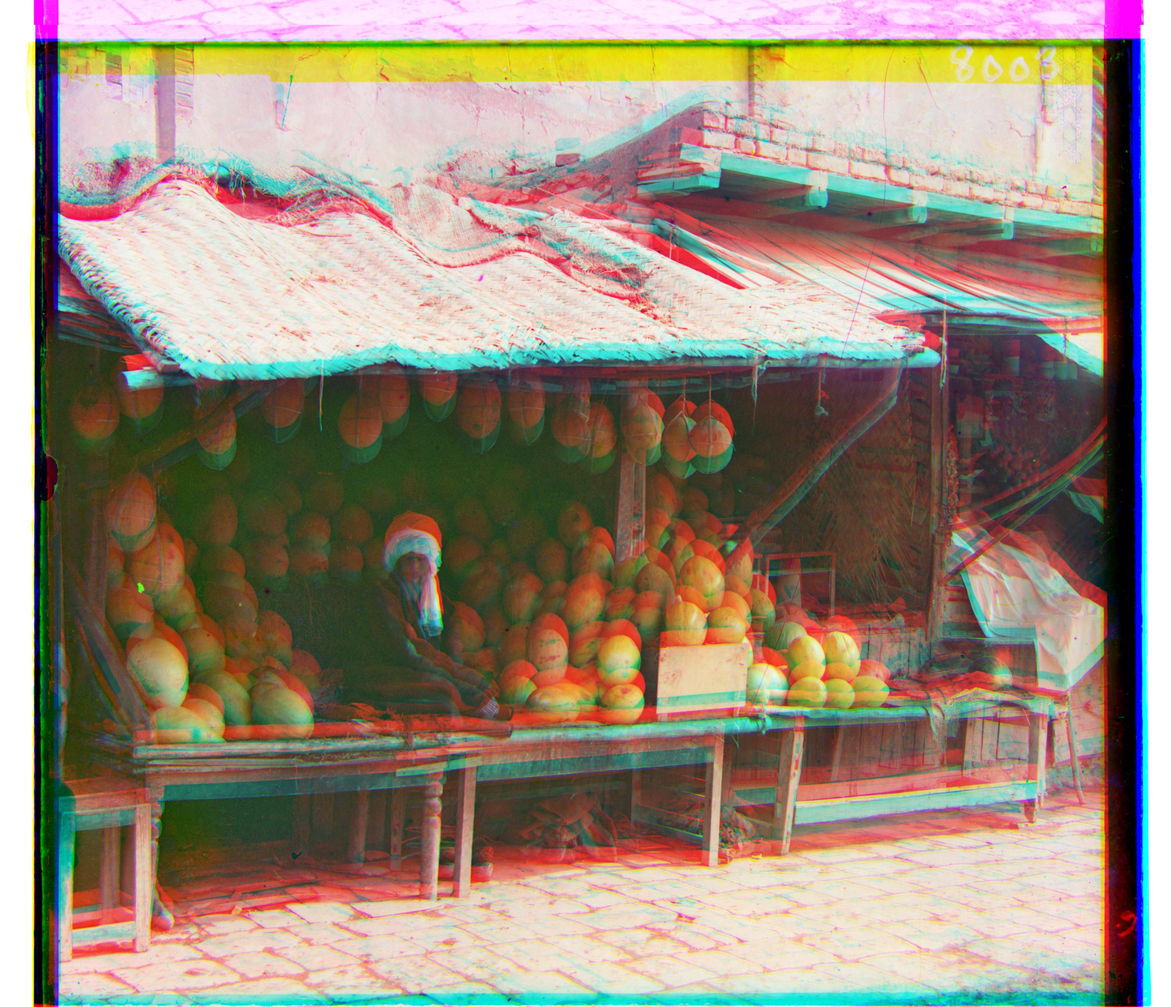
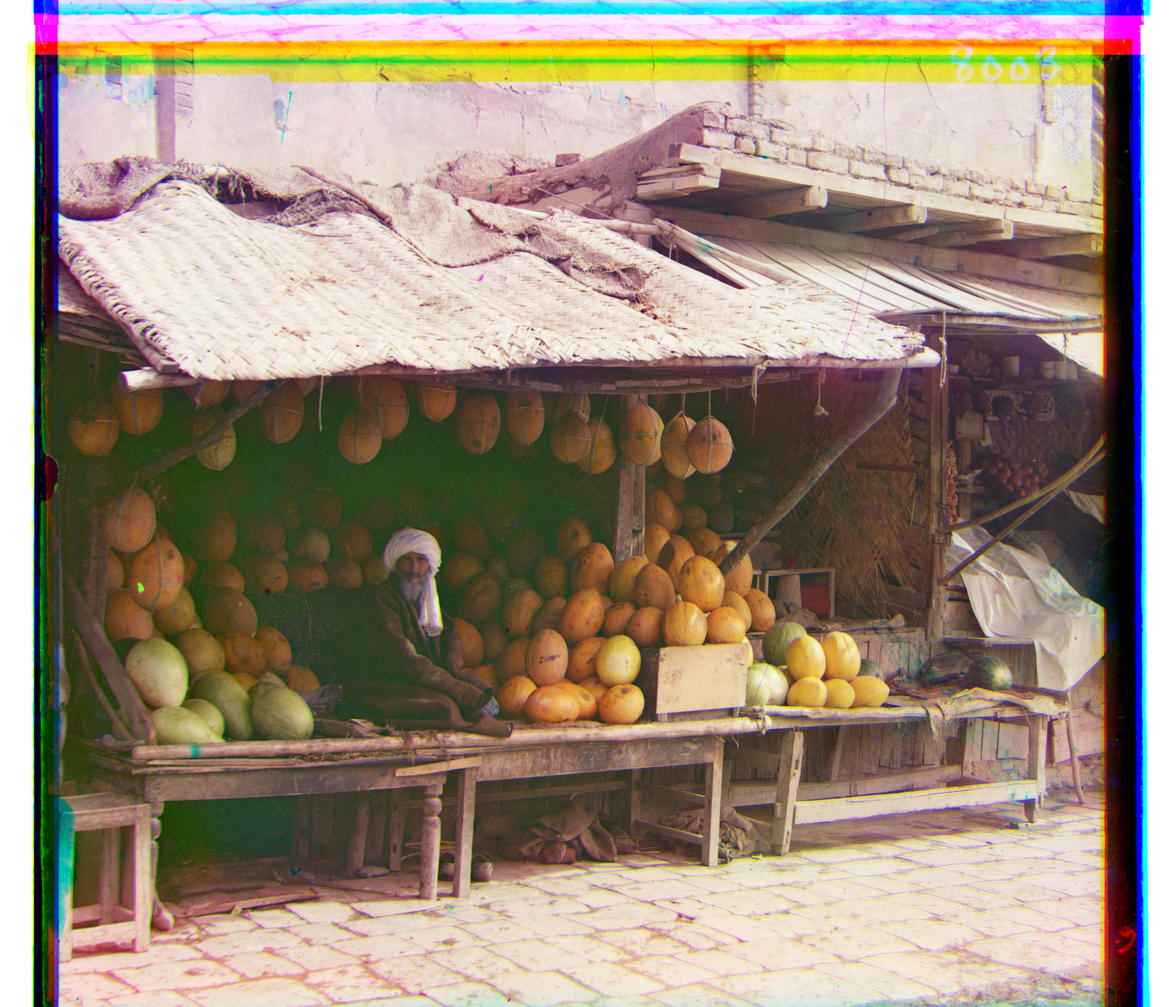
completeed project1

diff --git a/projects/project1.md b/projects/project1.md
@@ -56,7 +56,7 @@ For the high resolution image, I utilized image pyramid, where the image is down
             <div class="slide"><img src="../images/harvesters_color.jpg" alt="Image 4">
                 <div class="caption">
                     <span>Harvesters</span><br>
-                    <span>(Offset: G=[60, 18], R=[124, 11])</span>
+                    <span>(Offset: G=[60, 18], R=[125, 11])</span>
                 </div>
             </div>
             <div class="slide"><img src="../images/icon_color.jpg" alt="Image 5">
@@ -74,7 +74,7 @@ For the high resolution image, I utilized image pyramid, where the image is down
             <div class="slide"><img src="../images/melons_color.jpg" alt="Image 7">
                 <div class="caption">
                     <span>Melons</span><br>
-                    <span>(Offset: G=[80, 10], R=[124, 15])</span>
+                    <span>(Offset: G=[80, 10], R=[176, 12])</span>
                 </div>
             </div>
             <div class="slide"><img src="../images/monastery_color.jpg" alt="Image 8">
@@ -92,13 +92,13 @@ For the high resolution image, I utilized image pyramid, where the image is down
             <div class="slide"><img src="../images/sculpture_color.jpg" alt="Image 10">
                 <div class="caption">
                     <span>Sculpture</span><br>
-                    <span>(Offset: G=[33, -10], R=[124, -25])</span>
+                    <span>(Offset: G=[33, -10], R=[139, -26])</span>
                 </div>
             </div>
             <div class="slide"><img src="../images/self_portrait_color.jpg" alt="Image 11">
                 <div class="caption">
                     <span>Self Portrait</span><br>
-                    <span>(Offset: G=[80, 30], R=[124, 39])</span>
+                    <span>(Offset: G=[80, 30], R=[175, 37])</span>
                 </div>
             </div>
             <div class="slide"><img src="../images/three_generations_color.jpg" alt="Image 12">
